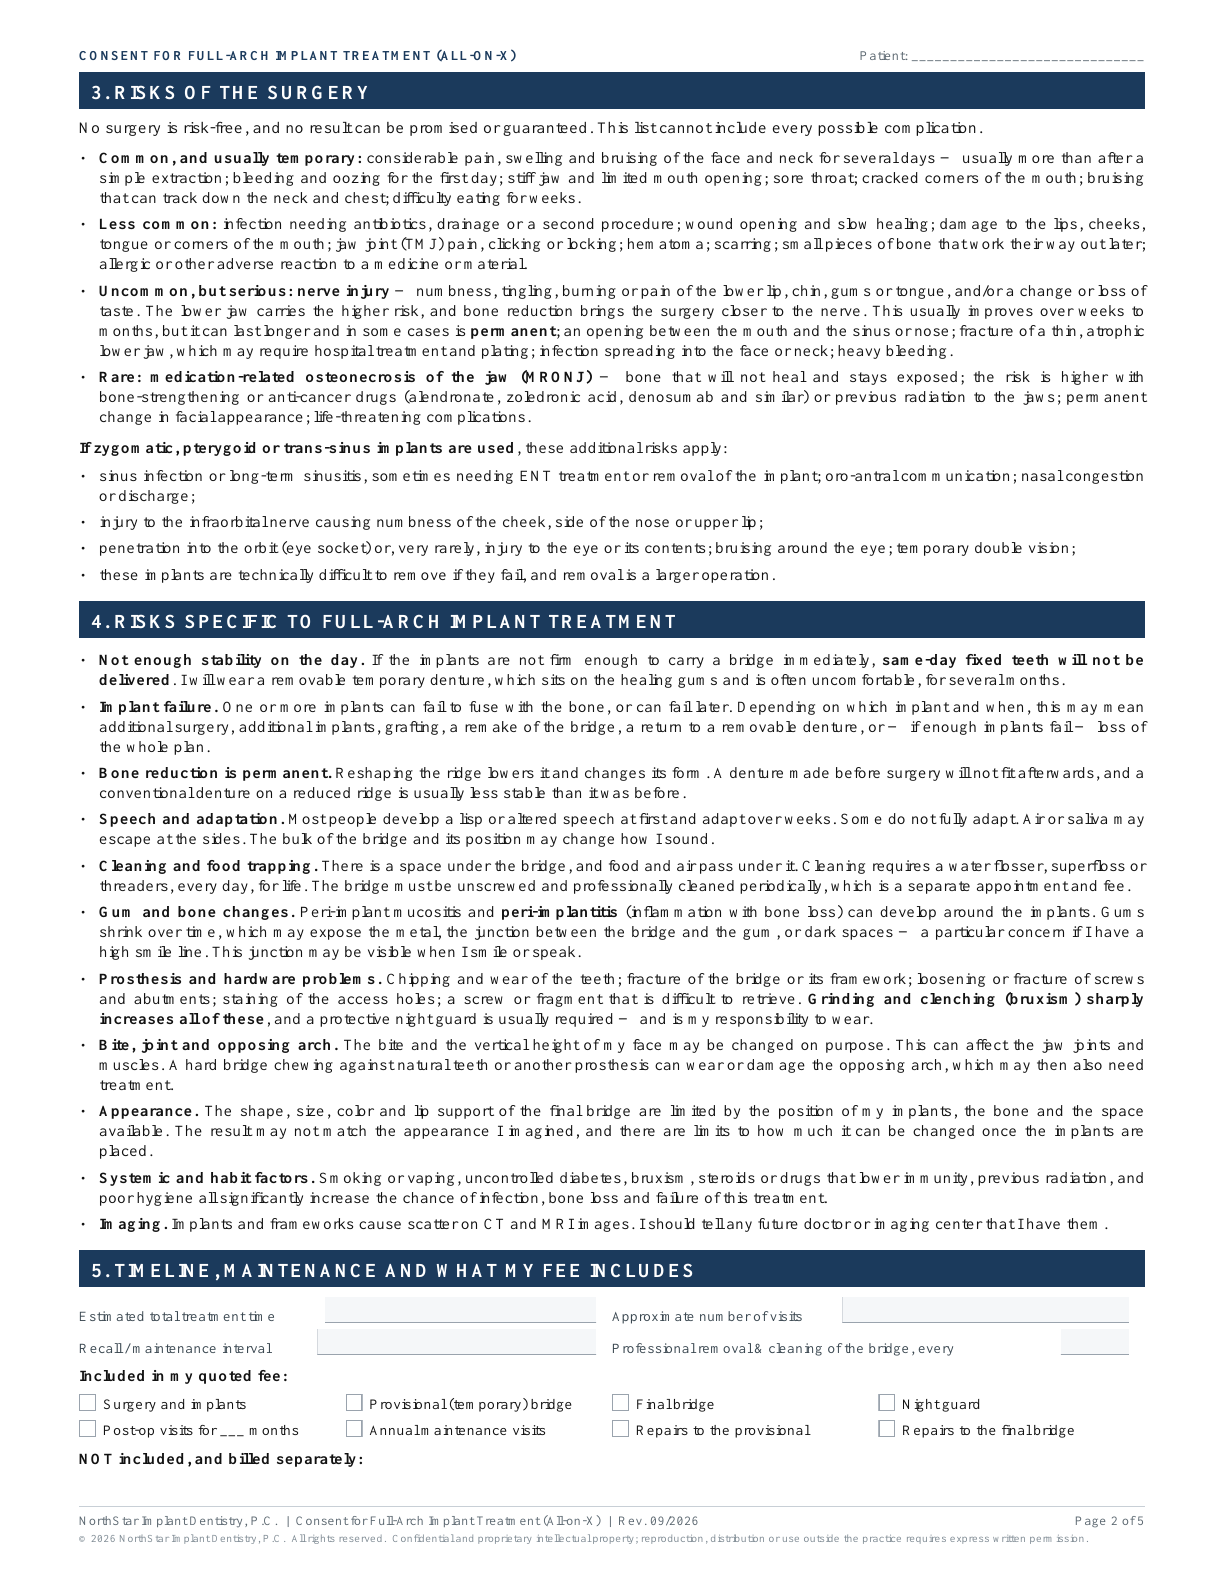
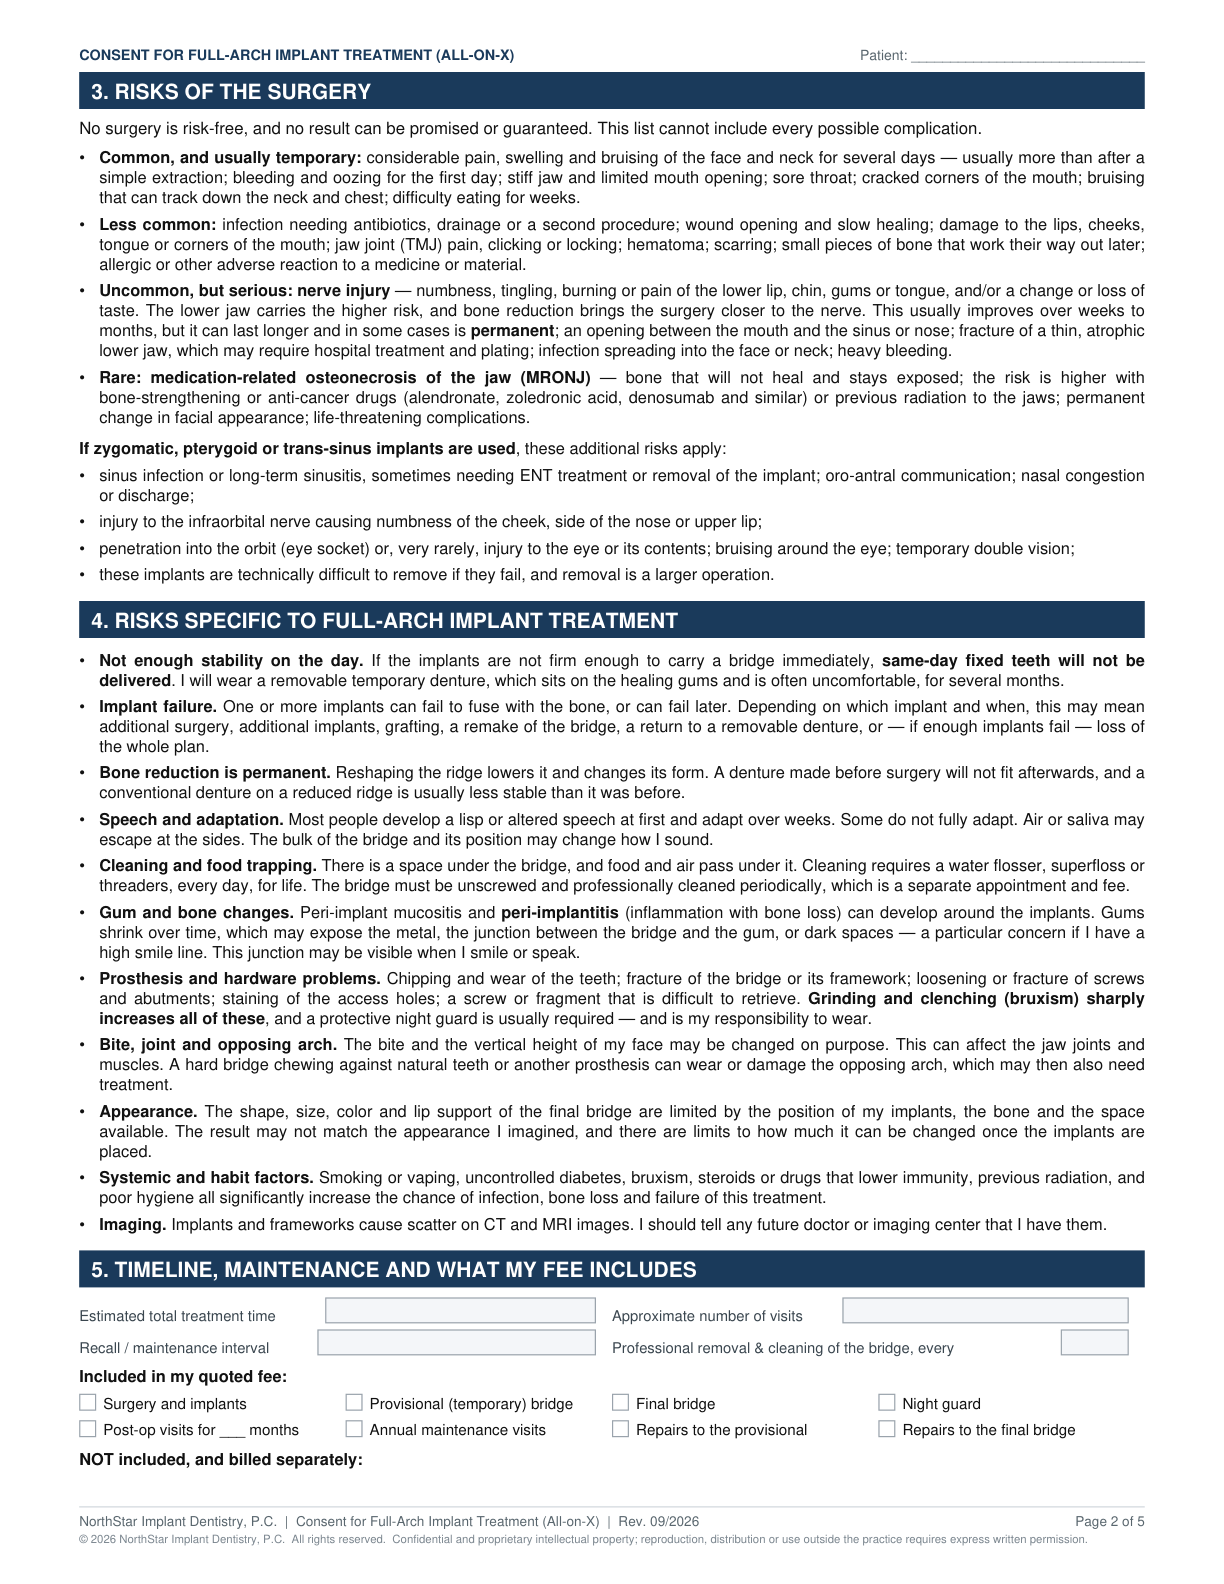
Fix form font rendering and remove duplicate online field borders

diff --git a/src/ConsentPage.tsx b/src/ConsentPage.tsx
@@ -7,9 +7,9 @@ const styles = `
 .consent-scroll{overflow-x:auto;margin:28px 0;background:#dce3e9;padding:16px}
 .consent-sheet{position:relative;width:816px;height:1056px;margin:0 auto;background:white;color:#111;container-type:inline-size}
 .consent-sheet img{display:block;width:100%;height:100%}.consent-widget{position:absolute;box-sizing:border-box;margin:0;padding:0;min-width:0;min-height:0;z-index:1}
-.consent-widget input,.consent-widget textarea{box-sizing:border-box;width:100%;height:100%;margin:0;padding:0 2px;border:1px solid #6385a5;border-radius:0;background:#eff6ff;color:#102b43;font:1.47cqw/1.12 Arial,sans-serif;resize:none}
+.consent-widget input,.consent-widget textarea{box-sizing:border-box;width:100%;height:100%;margin:0;padding:0 2px;border:0;border-radius:0;background:transparent;box-shadow:none;text-shadow:none;letter-spacing:normal;color:#102b43;font:1.47cqw/1.12 Arial,sans-serif;resize:none}
 .consent-widget input[type=checkbox]{appearance:none;padding:0;cursor:pointer}.consent-widget input[type=checkbox]:checked{background:#193b58}.consent-widget input[type=checkbox]:checked:after{content:'✓';display:block;color:white;line-height:1;font-size:1.35cqw;text-align:center}
-.consent-widget :focus-visible{outline:2px solid #0073c4;outline-offset:2px}.consent-output{display:none}.consent-transcript{white-space:pre-wrap;line-height:1.65}.consent-page-label{font-weight:700;margin:12px 0}
+.consent-widget :focus-visible{outline:2px solid #0073c4;outline-offset:-2px}.consent-output{display:none}.consent-transcript{white-space:pre-wrap;line-height:1.65}.consent-page-label{font-weight:700;margin:12px 0}
 @media print{
  @page{size:letter portrait;margin:0}
  html,body,#root,.page-root,.page-body{margin:0!important;padding:0!important;background:white!important;max-width:none!important;width:auto!important}

diff --git a/scripts/prepare-consent-pages.py b/scripts/prepare-consent-pages.py
@@ -1,9 +1,10 @@
 """Extract existing PDF widgets and render exact page backgrounds for local-only filling.
 The original downloadable PDFs are never rewritten.
-Requires pypdf and Poppler (pdftoppm).
+Requires pypdf and PyMuPDF.
 """
 from pathlib import Path
-import json,subprocess,html
+import json,html
+import fitz
 from pypdf import PdfReader
 root=Path(__file__).resolve().parents[1]
 items=[('all-on-x','Full-Arch Implant Treatment (All-on-X)','NorthStar_AllOnX_FullArch_Consent_Fillable.pdf'),('subperiosteal','Patient-Specific / Subperiosteal Implant','NorthStar_Subperiosteal_PSI_Consent_Fillable.pdf')]
@@ -12,8 +13,12 @@ items.append(('new-patient','New Patient Registration & Health History','NorthSt
 result=[]
 for slug,title,filename in items:
  path=root/'public/forms/consents'/filename;r=PdfReader(path);pages=[]
- if not all((path.parent/f'{slug}-{n}.png').exists() for n in range(1,len(r.pages)+1)):
-  subprocess.run(['pdftoppm','-r','144','-png',str(path),str(path.parent/slug)],check=True)
+ # MuPDF preserves the source PDFs' Helvetica spacing; Poppler substitution
+ # distorted these unembedded fonts. Render without widget appearances because
+ # the online form supplies its own inputs. Always refresh existing backgrounds.
+ with fitz.open(path) as document:
+  for n,background in enumerate(document,1):
+   (path.parent/f'{slug}-{n}.png').write_bytes(background.get_pixmap(matrix=fitz.Matrix(2,2),annots=False).tobytes('png'))
  for n,page in enumerate(r.pages,1):
   fields=[]
   for ref in page.get('/Annots',[]):
